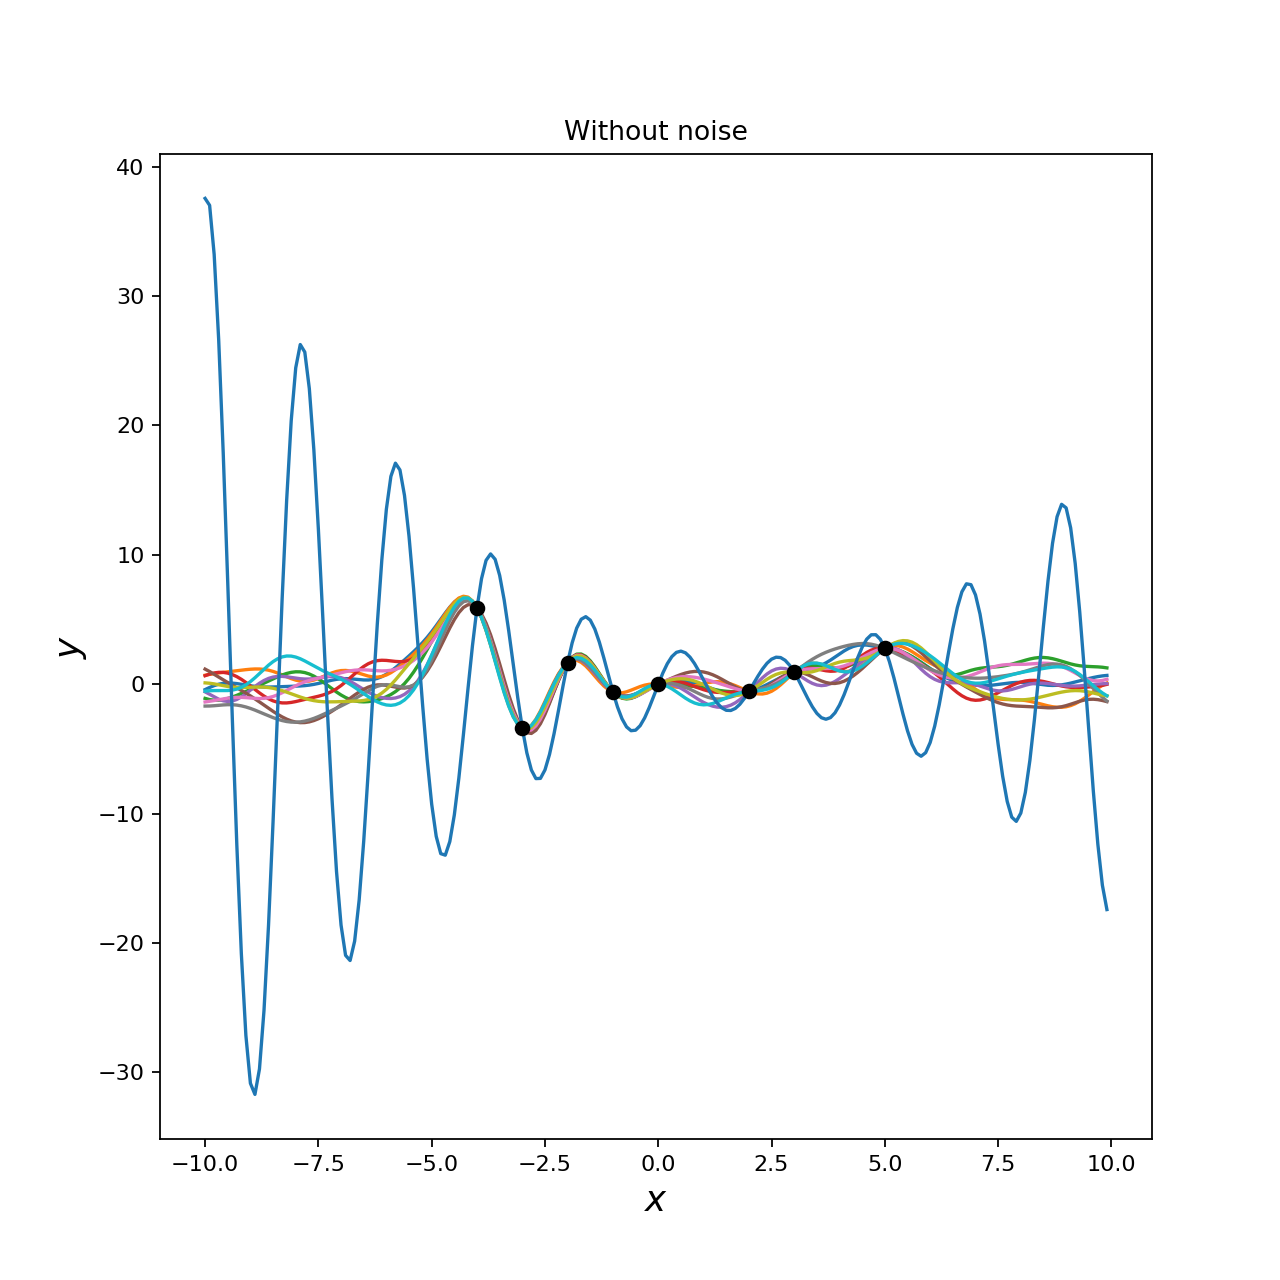
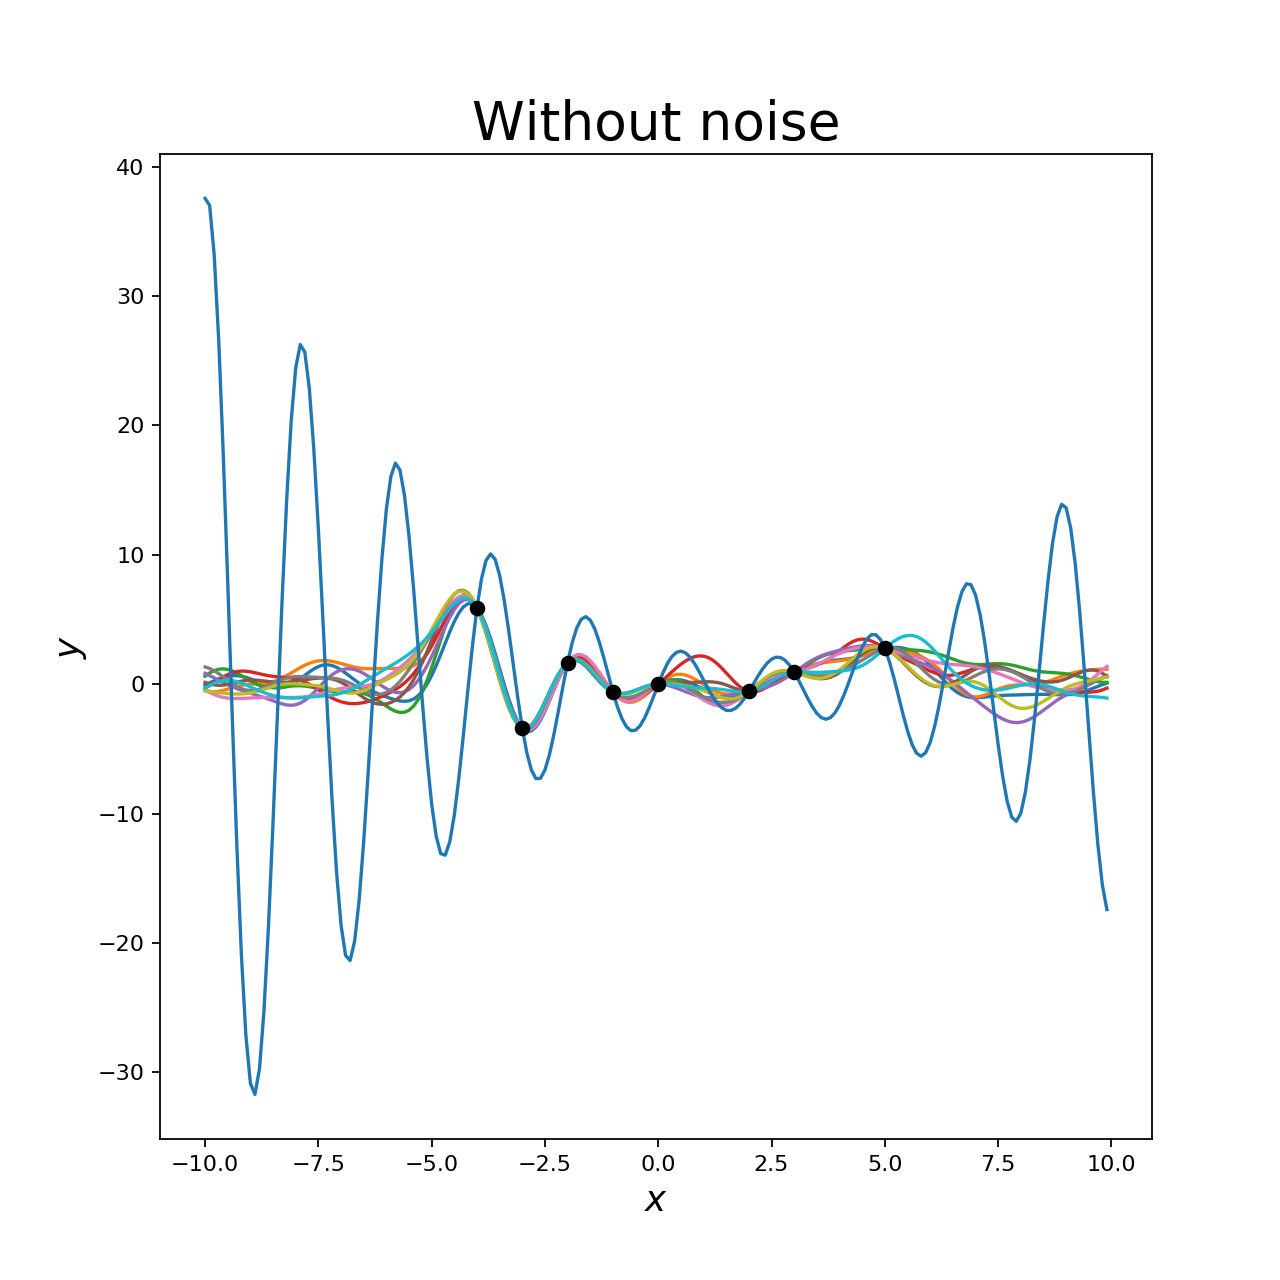
Fonts changed in plot titles

diff --git a/Assignments/A1/Practical/Practice1.py b/Assignments/A1/Practical/Practice1.py
@@ -187,7 +187,7 @@ if ex11:
     plt.plot(X, t_noNoise, 'o', color='black')
     plt.xlabel('$x$', fontsize=16)
     plt.ylabel('$y$', fontsize=16)
-    plt.title("Without noise")
+    plt.title("Without noise", fontsize=24)
     plt.show()
 
     noise = True
@@ -201,7 +201,7 @@ if ex11:
     plt.plot(X, f_Noise, 'o', color='black')
     plt.xlabel('$x$', fontsize=16)
     plt.ylabel('$y$', fontsize=16)
-    plt.title("With noise")
+    plt.title("With noise", fontsize=24)
     plt.show()
 
 # ------------------------------ Question 10 ------------------------------ #
